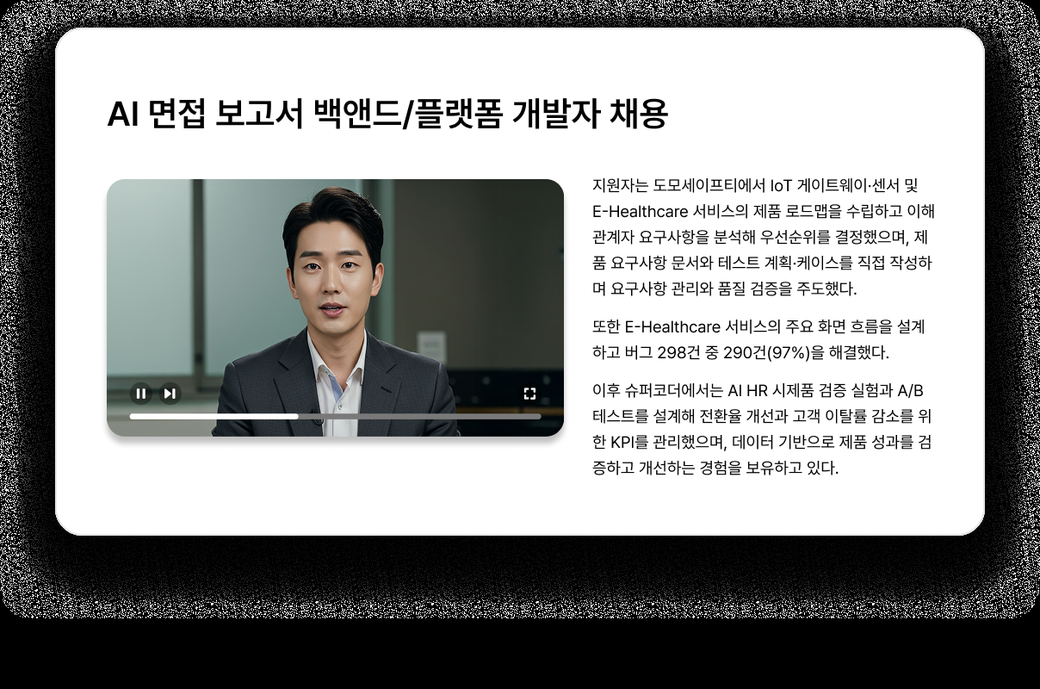
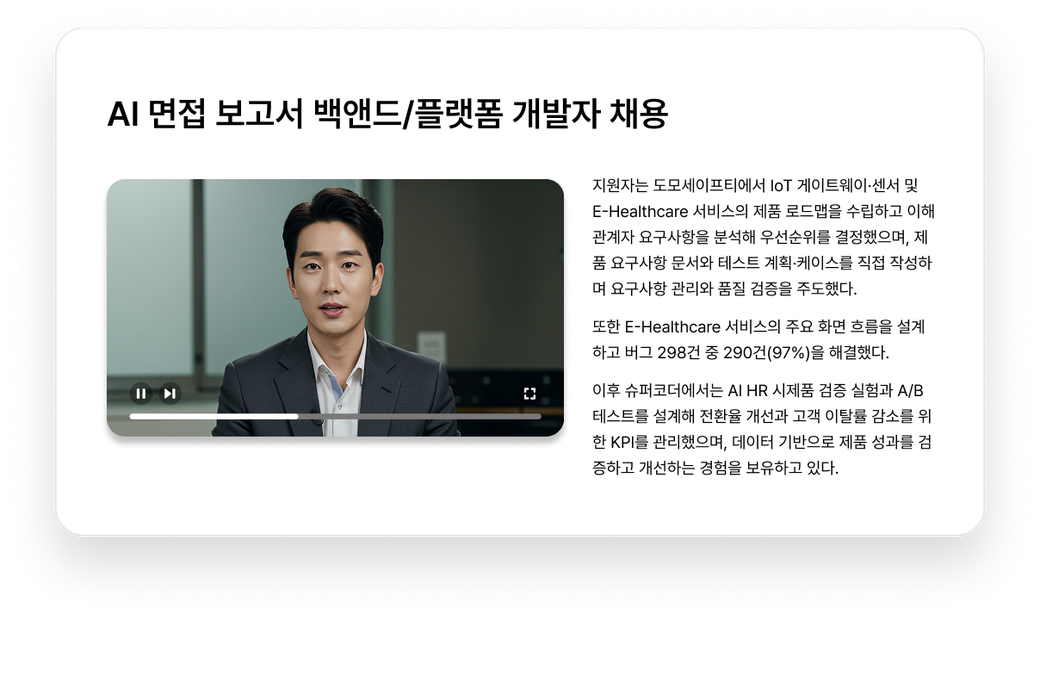
HOW 이미지: 브라우저 프레임 제거 + 투명 배경 검정 노이즈 해결
- 상단 브라우저 바(.hr-frame/.hr-bar) 제거 → 리포트 이미지만 단독 노출
- 원본이 RGBA(투명 배경)인데 RGB로 평탄화해 투명부가 검게 변하던 문제 수정
  → 투명도 유지(RGBA)로 WebP·PNG 재생성 (이미지 자체 그림자 보존)
- .hr-media의 사각 box-shadow/테두리 제거(투명 주변 검정·사각 그림자 방지)
- 데스크톱·모바일(390px) Playwright 검증, 콘솔 에러 0

diff --git a/index.html b/index.html
@@ -230,19 +230,10 @@
   .hr-info{text-align:left}
   .hr-info h3{font-size:clamp(22px,2.6vw,30px);font-weight:800;line-height:1.32;letter-spacing:-.02em;color:var(--ink)}
   .hr-info p{font-size:16px;color:var(--slate);margin-top:14px;line-height:1.62}
-  /* 이미지 = 브라우저 창 목업: 상단 바(신호등 점·주소칸) + 리포트 스크린샷(자연 비율, 크롭 없음) */
+  /* 리포트 이미지: 투명 PNG(자체 그림자 포함)를 그대로 노출 — 사각 박스 그림자/테두리 없음(투명 주변 검정·노이즈 방지) */
   .hr-media{width:100%;max-width:520px;margin-inline:auto}
-  .hr-frame{border:1px solid var(--line);border-radius:14px;overflow:hidden;background:#fff;box-shadow:0 20px 46px -22px rgba(20,40,90,.3)}
-  .hr-bar{display:flex;align-items:center;gap:7px;height:38px;padding:0 14px;background:var(--soft);border-bottom:1px solid var(--line)}
-  .hr-bar .dot{width:11px;height:11px;border-radius:50%;background:#D5DEEC;flex-shrink:0}
-  .hr-bar .dot.r{background:#FF6058}.hr-bar .dot.y{background:#FEBC2E}.hr-bar .dot.g{background:#28C840}
-  .hr-bar .url{margin-left:8px;flex:1;min-width:0;display:flex;align-items:center;gap:6px;background:#fff;border:1px solid var(--line);border-radius:6px;padding:3px 12px;font-size:12px;color:var(--slate-2)}
-  .hr-bar .url i{font-size:10px;color:var(--green);flex-shrink:0}
-  .hr-bar .url span{overflow:hidden;text-overflow:ellipsis;white-space:nowrap}
-  .hr-shot{display:block;background:#fff}
   .hr-img{width:100%;height:auto;display:block}
   @media(max-width:880px){.how-row{grid-template-columns:1fr;gap:22px}.hr-info{text-align:center}.how-row .hr-media{order:-1}}
-  @media(max-width:560px){.hr-bar{height:32px;padding:0 11px}.hr-bar .dot{width:9px;height:9px}.hr-bar .url{font-size:11px;padding:2px 9px}}
 
   /* 6. PROOF */
   /* 헤드카피 위 여유 공간 — 기본 섹션 패딩보다 상단을 더 넉넉히 */
@@ -664,16 +655,11 @@
       <p class="lead">검증은 AI가 끝냅니다 — 채용팀은 이 화면만 보면 됩니다.</p>
     </div>
 
-    <!-- 리포트 디테일: 텍스트 + 브라우저 프레임 목업(.hr-frame) 좌우 교차 3행. 리포트 스크린샷은 자연 비율(크롭 없음) -->
+    <!-- 리포트 디테일: 텍스트 + 리포트 이미지(.hr-media) 좌우 교차 3행. 이미지는 둥근 모서리+그림자, 자연 비율(크롭 없음) -->
     <div class="how-rows">
       <!-- Row 1: 이미지(좌) + 인터뷰 요약(우) -->
       <div class="how-row">
-        <div class="hr-media">
-          <div class="hr-frame">
-            <div class="hr-bar"><span class="dot r"></span><span class="dot y"></span><span class="dot g"></span><span class="url"><i class="fa-solid fa-lock"></i><span>app.aiview.ai/report</span></span></div>
-            <div class="hr-shot"><picture><source srcset="report-interview-summary.webp" type="image/webp"><img class="hr-img" src="report-interview-summary.png" alt="AIVIEW 리포트 — 인터뷰 내용 요약과 인터뷰 비디오" width="1040" height="689" loading="lazy"></picture></div>
-          </div>
-        </div>
+        <div class="hr-media"><picture><source srcset="report-interview-summary.webp" type="image/webp"><img class="hr-img" src="report-interview-summary.png" alt="AIVIEW 리포트 — 인터뷰 내용 요약과 인터뷰 비디오" width="1040" height="689" loading="lazy"></picture></div>
         <div class="hr-info">
           <h3>인터뷰 요약</h3>
           <p>AI 면접 대화를 핵심만 간추려, 지원자를 빠르게 파악할 수 있게 정리합니다.</p>
@@ -685,21 +671,11 @@
           <h3>리포트 종합평가</h3>
           <p>직무 적합도를 종합 점수로 환산해, 한눈에 판단할 수 있게 제시합니다.</p>
         </div>
-        <div class="hr-media">
-          <div class="hr-frame">
-            <div class="hr-bar"><span class="dot r"></span><span class="dot y"></span><span class="dot g"></span><span class="url"><i class="fa-solid fa-lock"></i><span>app.aiview.ai/report</span></span></div>
-            <div class="hr-shot"><picture><source srcset="report-overall-grade.webp" type="image/webp"><img class="hr-img" src="report-overall-grade.png" alt="AIVIEW 리포트 — 종합 등급(양호)과 종합 평가" width="1040" height="689" loading="lazy"></picture></div>
-          </div>
-        </div>
+        <div class="hr-media"><picture><source srcset="report-overall-grade.webp" type="image/webp"><img class="hr-img" src="report-overall-grade.png" alt="AIVIEW 리포트 — 종합 등급(양호)과 종합 평가" width="1040" height="689" loading="lazy"></picture></div>
       </div>
       <!-- Row 3: 이미지(좌) + 역량평가(우) -->
       <div class="how-row">
-        <div class="hr-media">
-          <div class="hr-frame">
-            <div class="hr-bar"><span class="dot r"></span><span class="dot y"></span><span class="dot g"></span><span class="url"><i class="fa-solid fa-lock"></i><span>app.aiview.ai/report</span></span></div>
-            <div class="hr-shot"><picture><source srcset="report-competency.webp" type="image/webp"><img class="hr-img" src="report-competency.png" alt="AIVIEW 리포트 — 역량 평가 레이더 차트와 항목별 등급" width="1040" height="747" loading="lazy"></picture></div>
-          </div>
-        </div>
+        <div class="hr-media"><picture><source srcset="report-competency.webp" type="image/webp"><img class="hr-img" src="report-competency.png" alt="AIVIEW 리포트 — 역량 평가 레이더 차트와 항목별 등급" width="1040" height="747" loading="lazy"></picture></div>
         <div class="hr-info">
           <h3>역량평가</h3>
           <p>핵심 직무 역량을 항목별로 검증하고, 강점·약점을 시각화해 보여줍니다.</p>
